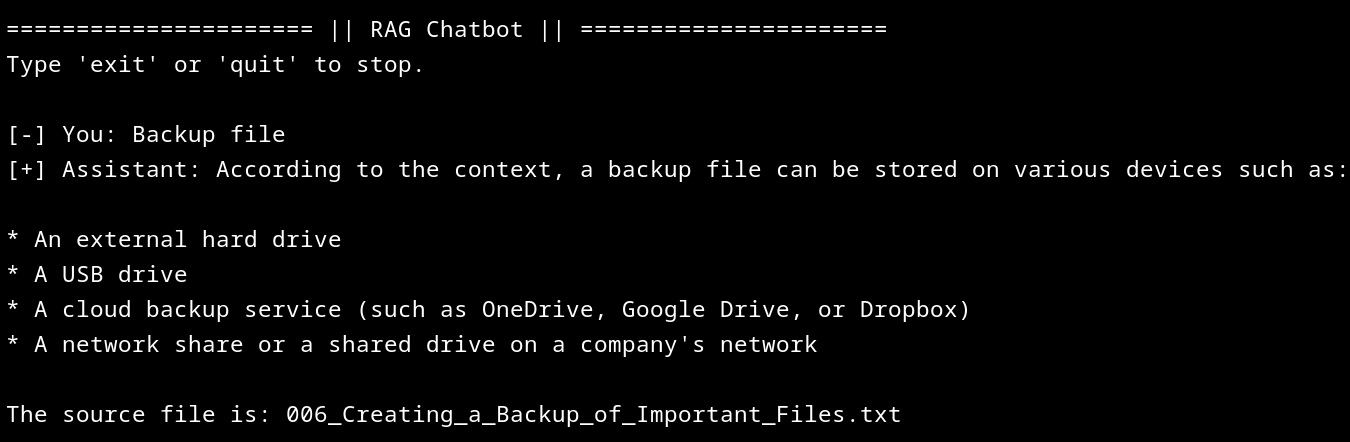
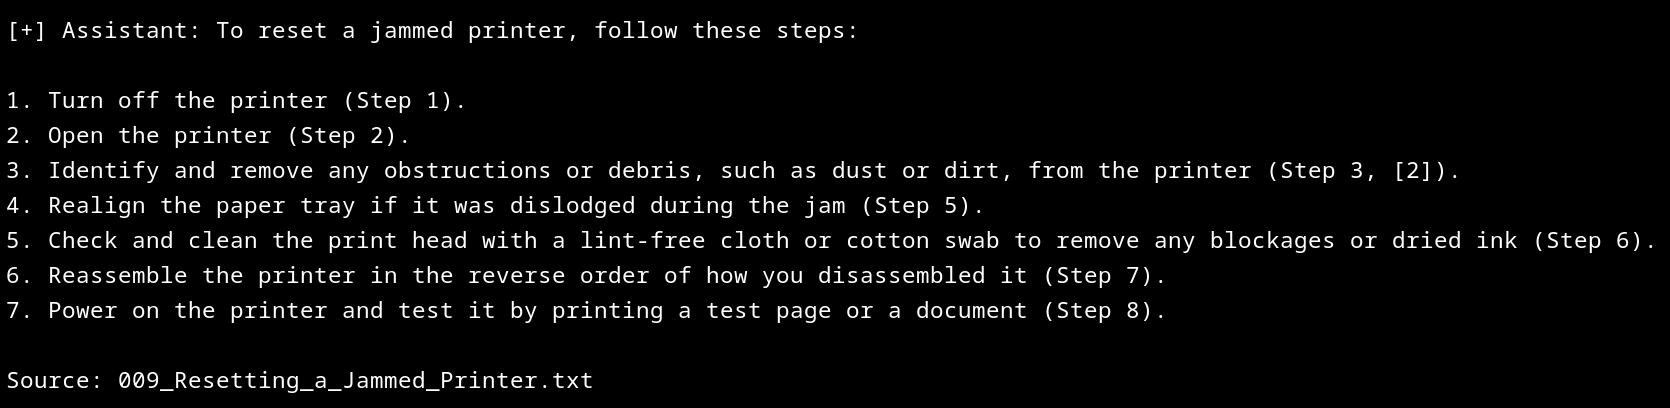
Add threshold, update to return table of retrived chunk and add ref images

diff --git a/app/retriever.py b/app/retriever.py
@@ -1,5 +1,5 @@
 from typing import List, TypedDict
-from app.config import TOP_K
+from app.config import (TOP_K,MAX_DISTANCE)
 from app.embedding import embed_query
 from app.chromadb_config import get_collection
 
@@ -32,13 +32,25 @@ def retrieve(query: str, top_k: int = TOP_K):
     distances = results["distances"][0]
 
     for text, meta, distance in zip(documents,metadatas,distances):
-        chunks.append(
-            {
-                "text": text,
-                "source": meta.get("source","unknown"),
-                "chunk_index": meta.get("chunk_index",-1),
-                "distance": distance
-            } #type:ignore
-        )
+        if distance <= MAX_DISTANCE:
+            chunks.append(
+                {
+                    "text": text,
+                    "source": meta.get("source","unknown"),
+                    "chunk_index": meta.get("chunk_index",-1),
+                    "distance": distance
+                } #type:ignore
+            )
 
     return chunks
+
+    return chunks
+
+
+def print_chunks(chunks: List[RetrievedChunk]) -> None:
+    print(f"\nTOP_K Chunk : [{len(chunks)}]")
+    print("=" * 80)
+    print(f"{'source':<60} {'distance':>12} {'rank':>6}")
+    for i, chunk in enumerate(chunks, start=1):
+        print(f"{chunk['source']:<60} {chunk['distance']:>12.4f} {i:>6}")
+    print()

diff --git a/app/pipeline.py b/app/pipeline.py
@@ -1,4 +1,4 @@
-from app.retriever import retrieve
+from app.retriever import (retrieve, print_chunks)
 from app.generator import generate_answer
 
 
@@ -6,6 +6,7 @@ def user_query(query: str) -> str:
 
     # Retrieve relevant chunks
     chunks = retrieve(query)
+    print_chunks(chunks)
 
     #  Generate answer from retrieved chunks
     answer = generate_answer(query, chunks)

diff --git a/app/config.py b/app/config.py
@@ -16,6 +16,7 @@ FILE_TO_LOAD = 5
 
 # ---------- Retrieval config ----------
 TOP_K = 4
+MAX_DISTANCE = 0.8 # Threshold
 
 # ------ Generation config ------
 

diff --git a/README.md b/README.md
@@ -96,18 +96,124 @@ After the vector store has been built and verified, run the chatbot from the pro
 Test to see how LLM response to our question with/without data in documents that we've ingested! 
 
 ## 6.1 Test with 3 questions that should have answers inside your documents
+**Result in screenshot and result as text maybe a bit different since I ran both them in two diff time.**
 
 ```Qestion 1: How to setup email for mobile devices?```
 ![Q&A1](./images/Screenshot%20From%202026-09-10%2021-46-38.png)
+```
+[-] You: How to setup email for mobile devices?
 
-```Qestion 2: Bakup file```
+TOP_K Chunk : [4]
+================================================================================
+source                                                           distance   rank
+001_Setting_Up_a_Mobile_Device_for_Company_Email.txt               0.2941      1
+010_Configuring_Email_on_an_Android_Device.txt                     0.3485      2
+001_Setting_Up_a_Mobile_Device_for_Company_Email.txt               0.3587      3
+010_Configuring_Email_on_an_Android_Device.txt                     0.4235      4
+
+[+] Assistant: To set up email for mobile devices, follow these steps:
+
+**For iOS, Android, or Windows devices:**
+
+1. Ensure that Mobile Device Management (MDM) profile is installed on your device, if required by company policy. (Source: 001_Setting_Up_a_Mobile_Device_for_Company_Email.txt)
+2. Go to the Settings app on your mobile device.
+3. Select "Mail" or "Email" (depending on your device's operating system).
+4. Tap "Add Account" or "Create a new account".
+5. Select "Exchange" or "Corporate" as the account type.
+6. Enter your company email address and password.
+7. If prompted, enter the company's email server address (e.g., mail.company.com).
+8. Select the desired synchronization options.
+9. Tap "Save" or "Done" to complete the setup process.
+
+**For Android devices:**
+
+1. Go to the Email app on your Android device.
+2. Tap on the "Add account" or "Create a new account" button.
+3. Select "Email" or "Corporate" as the account type, depending on your email provider.
+4. Enter your email address and password in the required fields.
+5. Tap "Next" to proceed.
+6. The device will attempt to automatically configure the server settings. If it fails, you will need to enter the settings manually.
+7. Tap on "Manual setup" or "Advanced setup" to enter the server settings manually.
+
+Note: If MDM is required, contact your IT department for assistance. (Source: 001_Setting_Up_a_Mobile_Device_for_Company_Email.txt)
+```
+
+```Qestion 2: How to reset jammed printer?  ```
 ![Q&A2](./images/Screenshot%20From%202026-09-10%2021-54-51.png)
+```
+[-] You: How to reset jammed printer?        
+
+TOP_K Chunk : [4]
+================================================================================
+source                                                           distance   rank
+009_Resetting_a_Jammed_Printer.txt                                 0.2581      1
+009_Resetting_a_Jammed_Printer.txt                                 0.4356      2
+009_Resetting_a_Jammed_Printer.txt                                 0.5358      3
+009_Resetting_a_Jammed_Printer.txt                                 0.5530      4
+
+[+] Assistant: To reset a jammed printer, follow these steps:
+
+1. Turn off the printer (Step 1).
+2. Open the printer (Step 2).
+3. Identify and remove any obstructions or debris, such as dust or dirt, from the printer (Step 3, [2]).
+4. Realign the paper tray if it was dislodged during the jam (Step 5).
+5. Check and clean the print head with a lint-free cloth or cotton swab to remove any blockages or dried ink (Step 6).
+6. Reassemble the printer in the reverse order of how you disassembled it (Step 7).
+7. Power on the printer and test it by printing a test page or a document (Step 8).
+
+Source: 009_Resetting_a_Jammed_Printer.txt
+
+```
 
 ```Qestion 3: Help me fix problem with Microsoft Office```
 ![Q&A3](./images/Screenshot%20From%202026-09-10%2021-55-58.png)
+```
+TOP_K Chunk : [4]
+================================================================================
+source                                                           distance   rank
+004_Troubleshooting_Issues_with_Microsoft_Office.txt               0.3102      1
+004_Troubleshooting_Issues_with_Microsoft_Office.txt               0.3736      2
+004_Troubleshooting_Issues_with_Microsoft_Office.txt               0.3991      3
+004_Troubleshooting_Issues_with_Microsoft_Office.txt               0.4099      4
 
-## 6.2 Test with 2 questions dont have any answer in documents
+[+] Assistant: I could not find a specific answer to your question in the provided context. However, based on the steps provided in the article, I can suggest some general troubleshooting steps:
+
+1. Try restarting Microsoft Office to see if the issue resolves.
+2. Check for updates and install any available updates.
+3. Try resetting Office configuration by following the steps in Step 6 of the article.
+4. If none of the above steps resolve the issue, try reinstalling Microsoft Office.
+
+If you could provide more information about the specific problem you are experiencing with Microsoft Office, I may be able to provide more tailored advice.
+
+[1] Source: 004_Troubleshooting_Issues_with_Microsoft_Office.txt
+[2] Source: 004_Troubleshooting_Issues_with_Microsoft_Office.txt
+[3] Source: 004_Troubleshooting_Issues_with_Microsoft_Office.txt
+[4] Source: 004_Troubleshooting_Issues_with_Microsoft_Office.txt
+
+```
+
+## 6.2 Test with 2 questions for Off-topic Question
 ```Qestion 4: Tell me about cambodia?```
 
-```Qestion 5: Error Code ER-123```
+```Qestion 5: What is Information Technology?```
 ![Q&A4and5](./images/Screenshot%20From%202026-09-10%2022-07-21.png)
+```
+[-] You: Tell me about cambodia?
+
+TOP_K Chunk : [0]
+================================================================================
+source                                                           distance   rank
+
+[+] Assistant: I could not find this in your documents.
+
+[-] You: What is Information Technology?
+
+TOP_K Chunk : [0]
+================================================================================
+source                                                           distance   rank
+
+[+] Assistant: I could not find this in your documents.
+```
+In conclusion: for off-topic questions, the retriever still returns the top-k nearest chunks by default, since vector search always finds some closest match regardless of relevance. However, the distance values for these off-topic chunks are noticeably higher than for chunks that genuinely answer a question found in the documents — in our tests, ~1.22–1.29 for an irrelevant query versus ~0.29–0.42 for a relevant one.
+
+To handle this, we added a distance threshold (MAX_DISTANCE = 0.8) that filters out any chunk whose distance exceeds this value. Since off-topic queries produce distances well above 0.8, no chunks pass the filter, and retrieve() correctly returns an empty list — allowing the system to report "no relevant information found" instead of returning irrelevant context.
